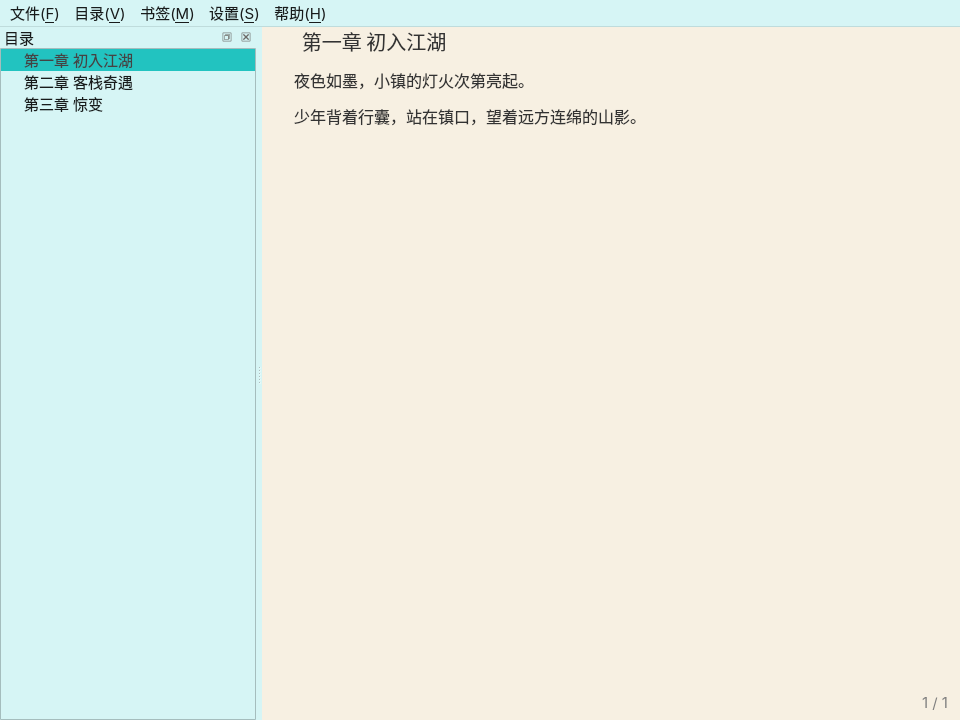
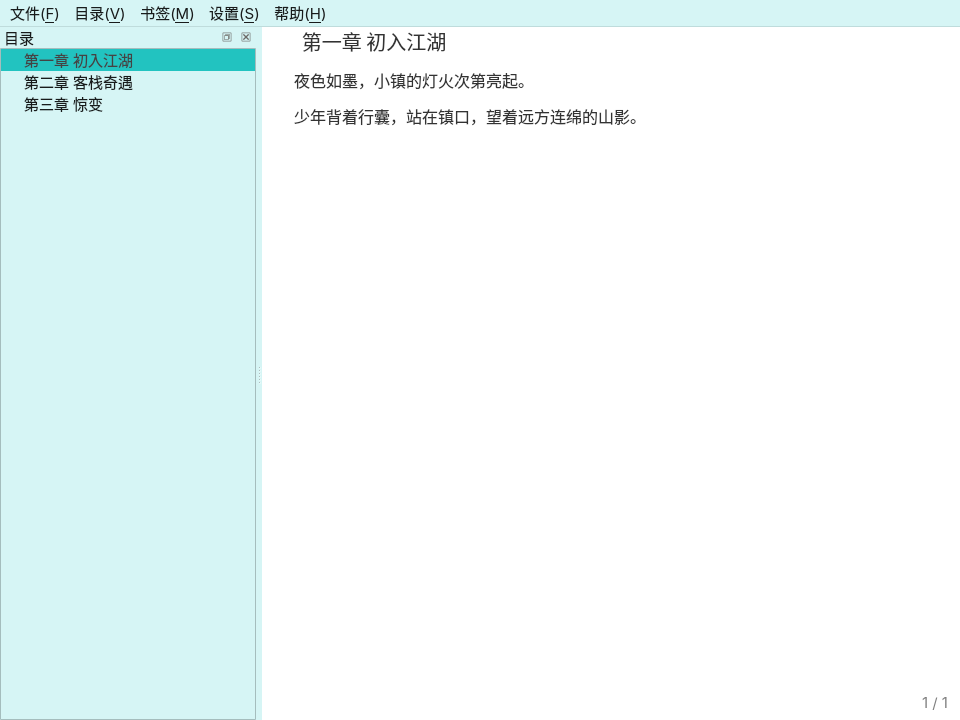
feat: 阅读背景默认改为纯白

diff --git a/src/core/Settings.h b/src/core/Settings.h
@@ -12,7 +12,7 @@ struct DisplaySettings
     QFont titleFont{QStringLiteral("Noto Sans CJK SC"), 15};
     bool useSameFont = false;
     QColor textColor{QColor(0x33, 0x33, 0x33)};
-    QColor bgColor{QColor(0xF7, 0xF0, 0xE2)};
+    QColor bgColor{Qt::white};
     int lineGap = 4;
     int paragraphGap = 8;
     bool firstLineIndent = true;

diff --git a/tests/tst_settings.cpp b/tests/tst_settings.cpp
@@ -21,7 +21,7 @@ void TestSettings::defaultsWhenMissing()
     s.load();
     QCOMPARE(s.display.font.family(), QStringLiteral("Noto Sans CJK SC"));
     QCOMPARE(s.display.lineGap, 4);
-    QCOMPARE(s.display.bgColor, QColor(0xF7, 0xF0, 0xE2));
+    QCOMPARE(s.display.bgColor, QColor(Qt::white));
     QVERIFY(s.display.wordWrap);
 }
 

diff --git a/src/core/Page.h b/src/core/Page.h
@@ -21,7 +21,7 @@ struct PageLayoutParams
     bool firstLineIndent = true;
     bool compressBlankLines = false;
     bool wordWrap = true;
-    QColor bgColor{QColor(0xF7, 0xF0, 0xE2)};
+    QColor bgColor{Qt::white};
     int margin = 24;
 };
 
